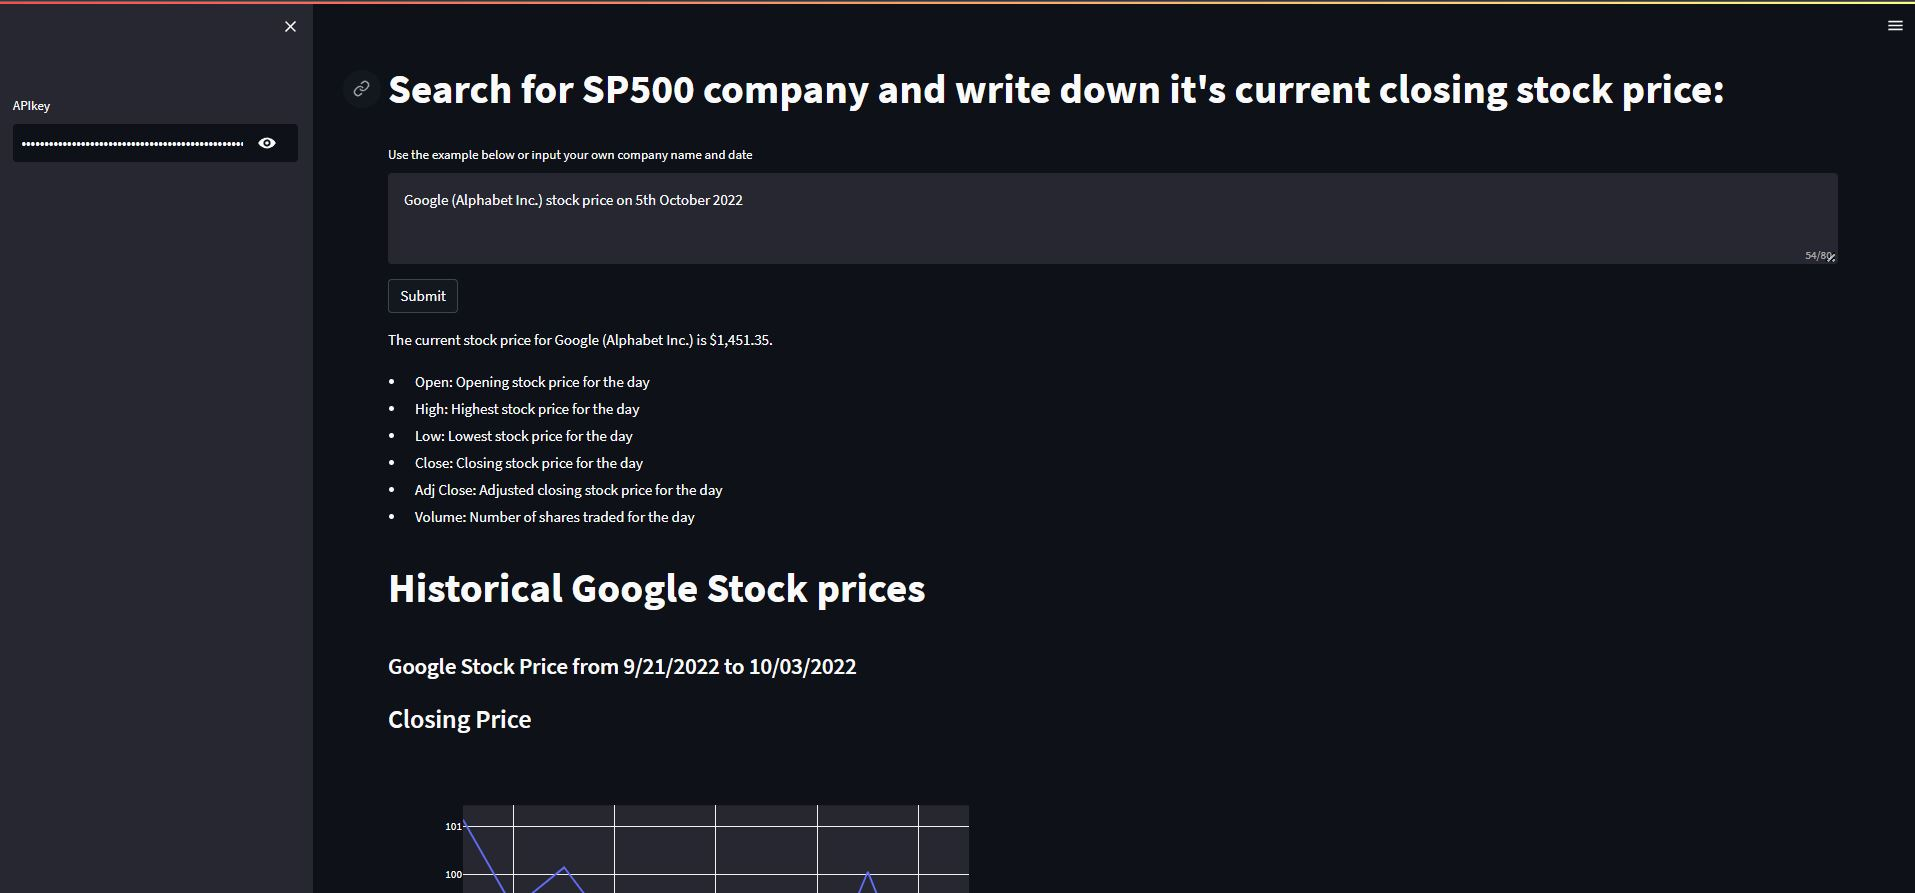
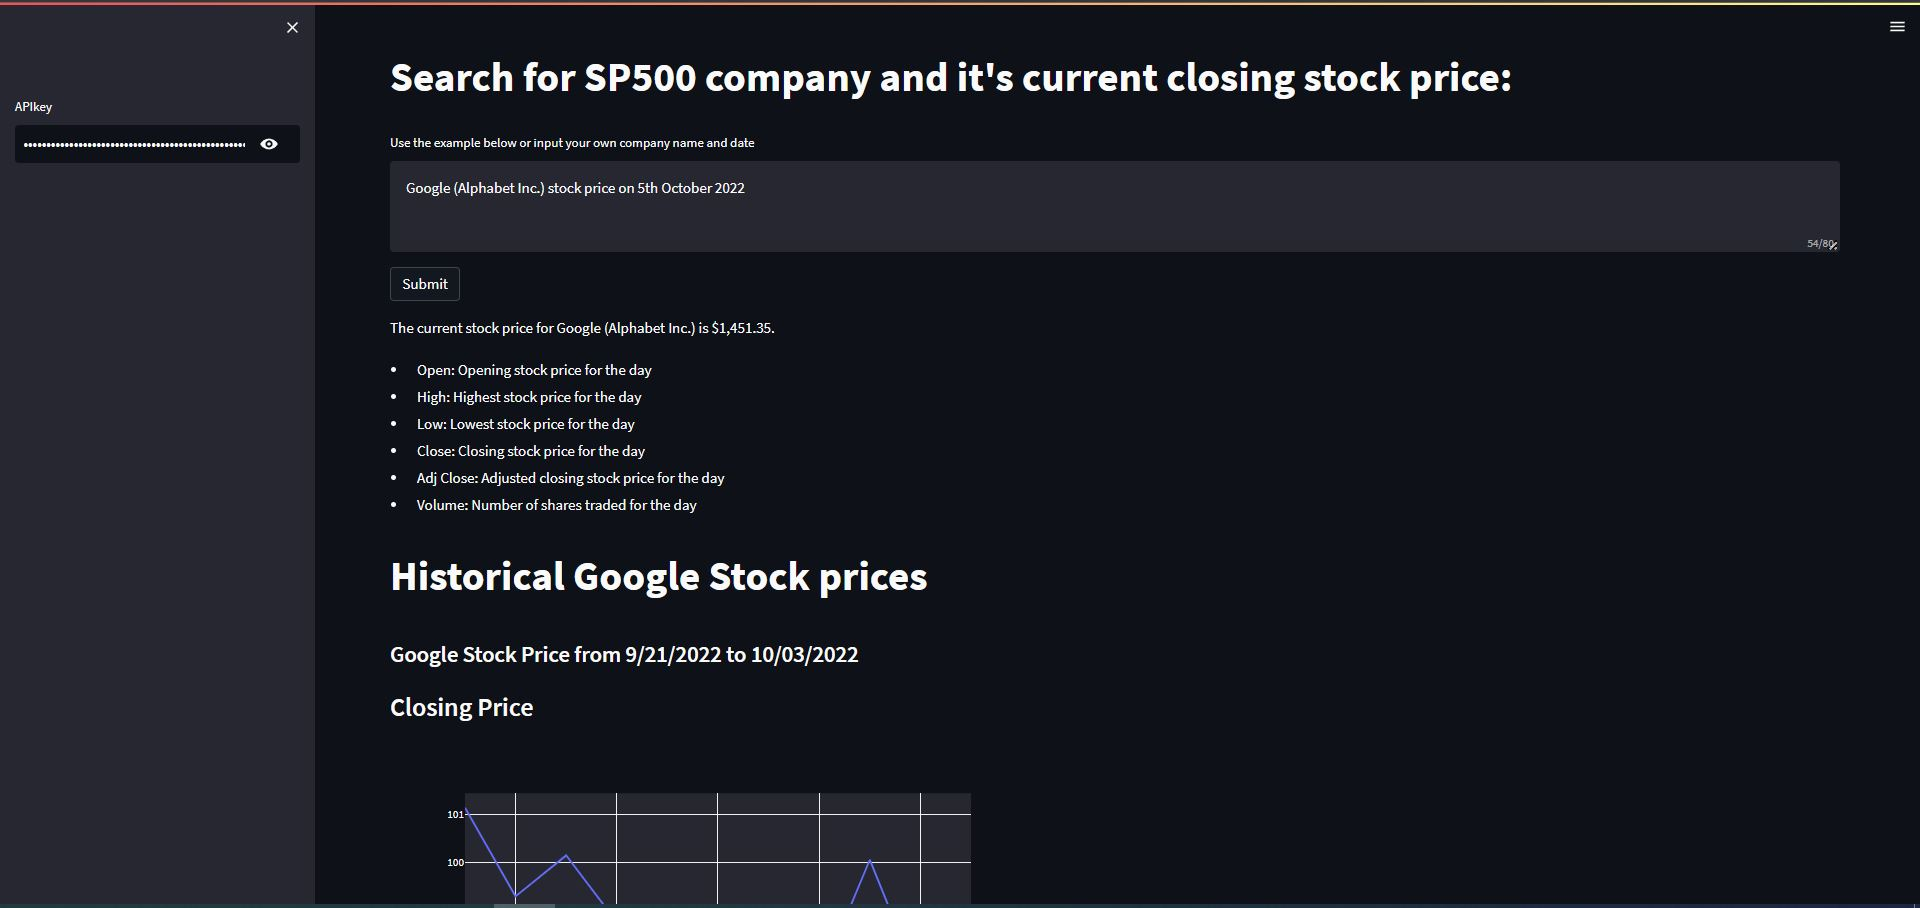
Update of Readme, Model and Preview

diff --git a/Main.py b/Main.py
@@ -17,7 +17,7 @@ def app():
     if api_key:
 
         # Setting up the Title
-        st.title("Search for SP500 company and write down it's current closing stock price:")
+        st.title("Search for SP500 company and it's current closing stock price:")
 
         # st.write("---")
 

diff --git a/README.md b/README.md
@@ -56,7 +56,7 @@ https://pypi.org/project/yfinance/
 
 ![alt text](https://raw.githubusercontent.com/azagorowski/Streamlit-app-powered-by-openai/main/img/api-key.JPG "API key")
 
-**9. Enjoy the app: **
+**9. Enjoy the app:**
 
 ![alt text](https://raw.githubusercontent.com/azagorowski/Streamlit-app-powered-by-openai/main/img/preview0.JPG "Enjoy!")
 
